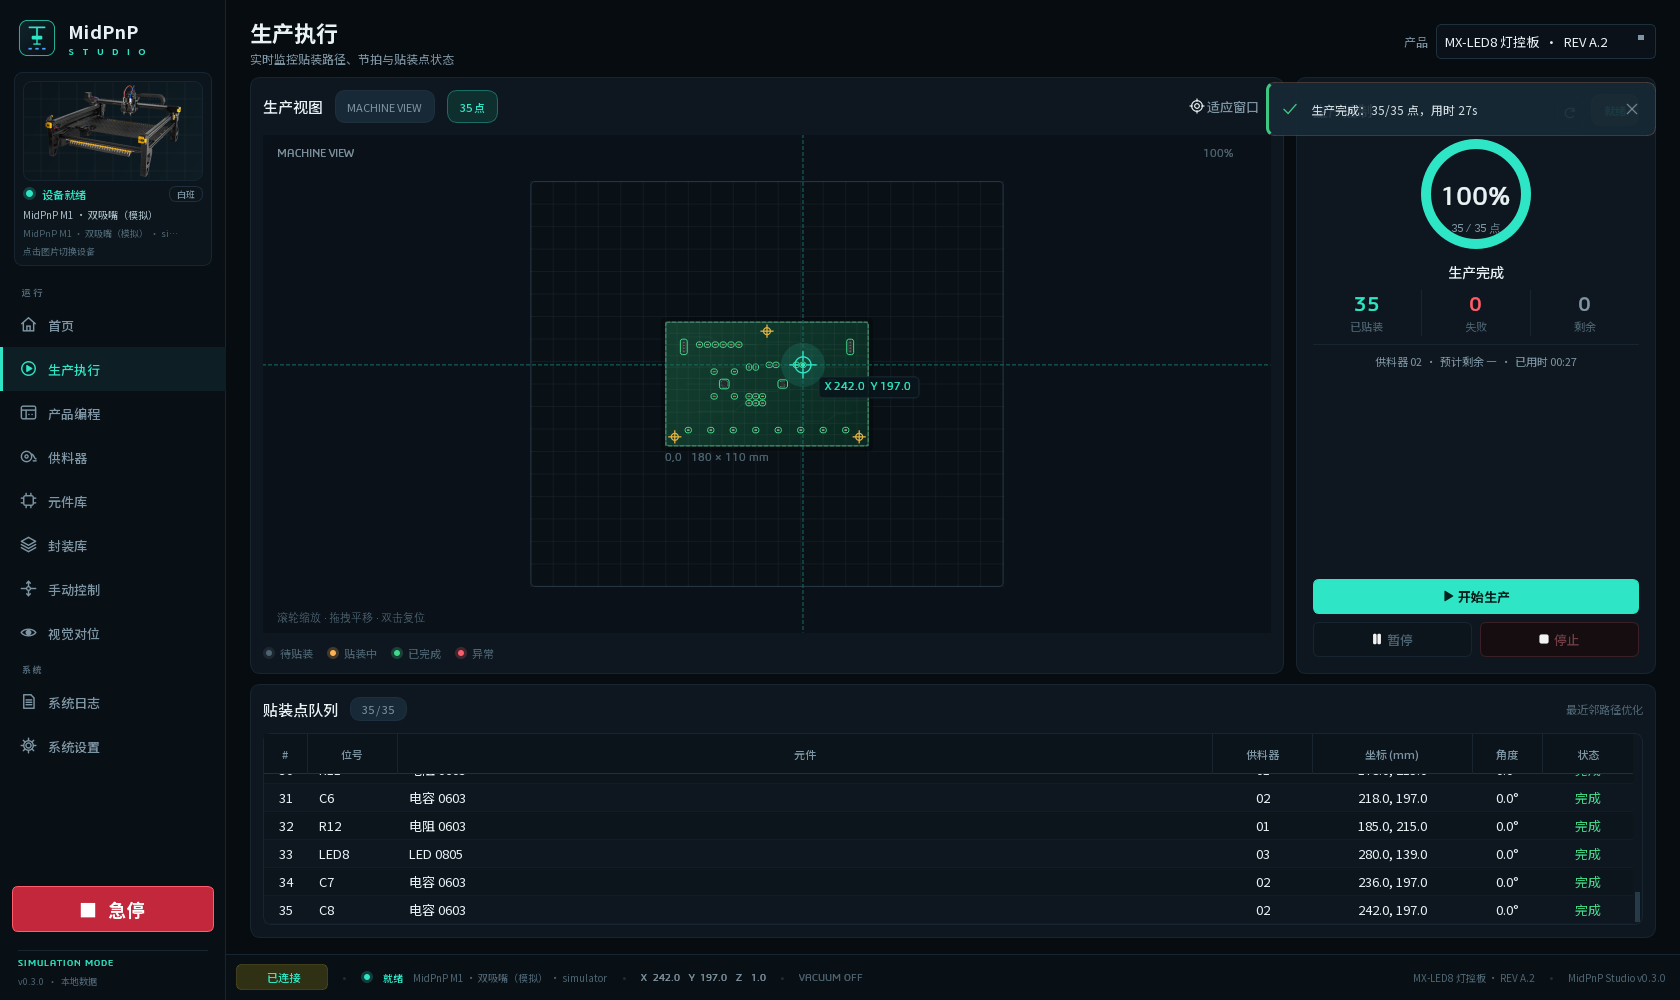
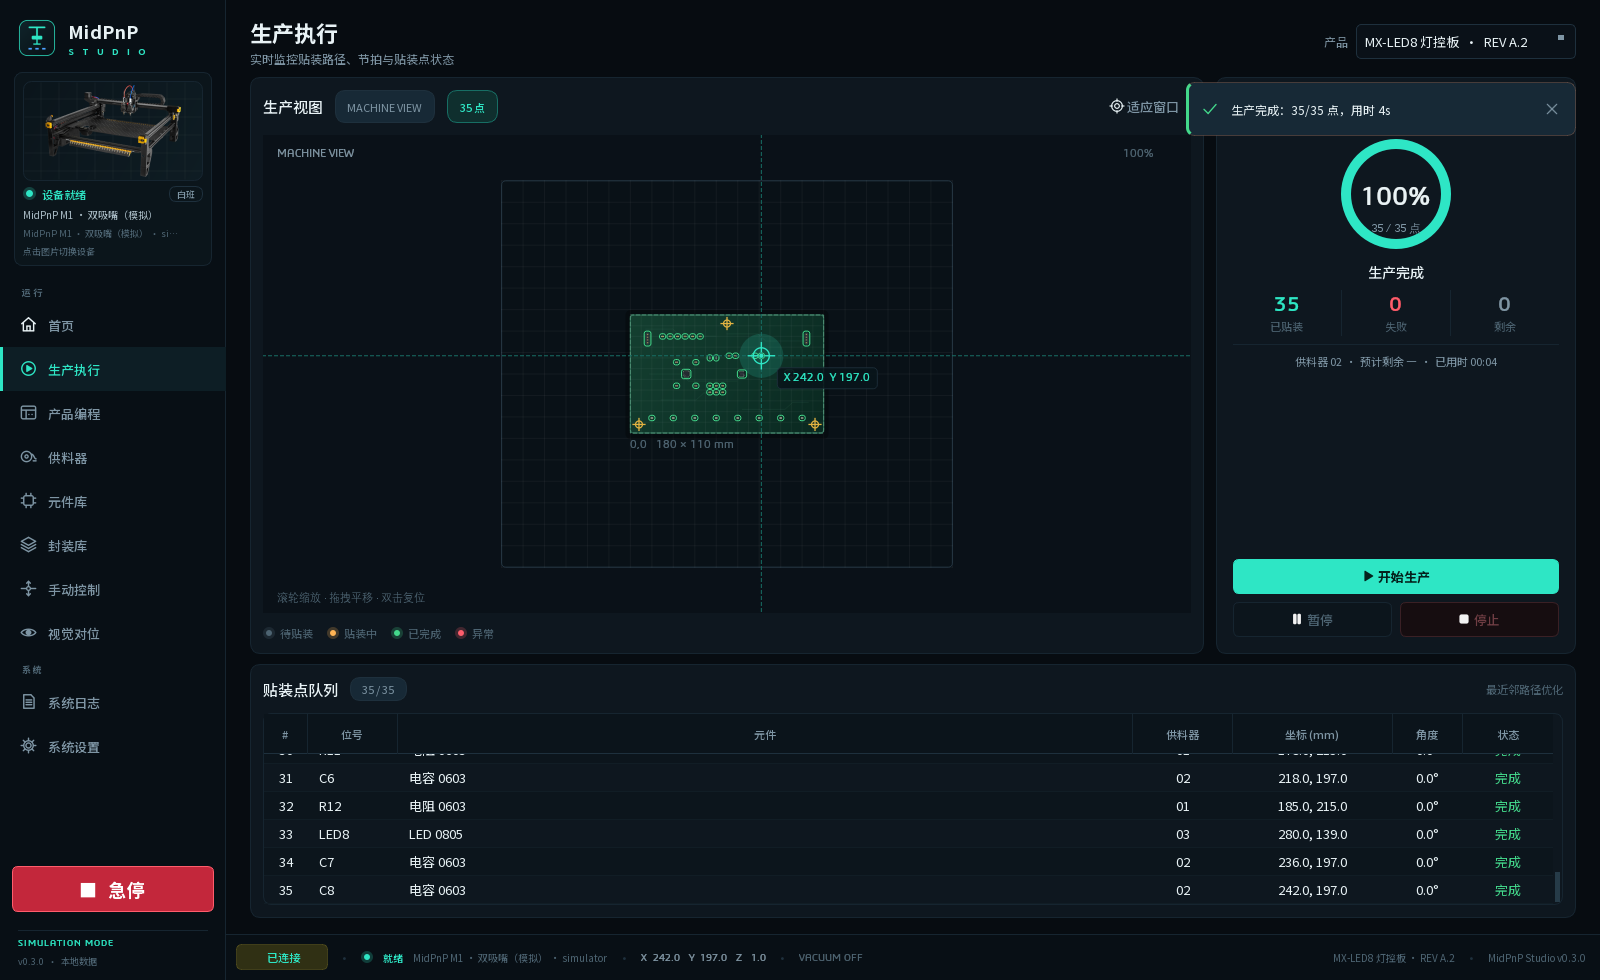
fix(ui): redraw bed to match the reference plate
- use two chamfered plate panels sharing a 267/535 divider, with V notches at
  the divider ends and large mounting holes at all plate corners
- reproduce the staggered hole grid from the reference: 64 px horizontal pitch,
  32 px vertical pitch, 7 rows per half, alternating offsets, 8 px hole rings
  plus the marked locator holes
- redraw the calibration board as the wide trapezoid PCB with fiducial grid,
  side mounting holes and bottom connector, and the bottom camera as the
  concentric lens stack with its locating holes
- product outline remains as a thin accent outline so the bed artwork stays
  visible
- 115 tests, screenshots updated

diff --git a/midpnp/ui/pages/home.py b/midpnp/ui/pages/home.py
@@ -489,9 +489,7 @@ class MachineScene(QWidget):
             )
             board_rect = QRectF(top_left, bottom_right).normalized()
             painter.setPen(QPen(QColor(COLORS["accent"]), 1.0))
-            fill = QColor(COLORS["accent"])
-            fill.setAlpha(18)
-            painter.setBrush(fill)
+            painter.setBrush(Qt.BrushStyle.NoBrush)
             painter.drawRect(board_rect)
             painter.setBrush(QColor(COLORS["accent"]))
             painter.setPen(Qt.PenStyle.NoPen)
@@ -535,101 +533,202 @@ class MachineScene(QWidget):
         return image
 
     def _draw_default_bed(self, painter: QPainter, bed: QRectF) -> None:
-        # 平台外框与角部安装孔
-        painter.setPen(QPen(QColor("#4a6674"), 1.2))
+        # 按参考图 1:1 比例绘制：上下两块倒角面板、交错孔阵列、校准板与相机
+        left, top, right, bottom = bed.left(), bed.top(), bed.right(), bed.bottom()
+        width, height = bed.width(), bed.height()
+        cut = width * 18 / 1302
+        divider = top + height * 267 / 535
+
+        def px(value: float) -> float:
+            return left + width * value / 1302
+
+        def py(value: float) -> float:
+            return top + height * value / 535
+
+        def plate(top_y: float, bottom_y: float) -> QPolygonF:
+            return QPolygonF(
+                [
+                    QPointF(left + cut, top_y),
+                    QPointF(right - cut, top_y),
+                    QPointF(right, top_y + cut),
+                    QPointF(right, bottom_y - cut),
+                    QPointF(right - cut, bottom_y),
+                    QPointF(left + cut, bottom_y),
+                    QPointF(left, bottom_y - cut),
+                    QPointF(left, top_y + cut),
+                ]
+            )
+
+        painter.setPen(QPen(QColor("#4a6674"), 1.25))
         painter.setBrush(QColor("#0a1216"))
-        painter.drawRoundedRect(bed.adjusted(6, 6, -6, -6), 10, 10)
-        for corner in (
-            QPointF(bed.left() + 20, bed.top() + 20),
-            QPointF(bed.right() - 20, bed.top() + 20),
-            QPointF(bed.left() + 20, bed.bottom() - 20),
-            QPointF(bed.right() - 20, bed.bottom() - 20),
+        painter.drawPolygon(plate(top, divider))
+        painter.drawPolygon(plate(divider, bottom))
+
+        # 中缝
+        painter.setPen(QPen(QColor("#4a6674"), 1.15))
+        painter.drawLine(QPointF(px(18), divider), QPointF(px(1284), divider))
+
+        # 四角与中缝两端的大安装孔
+        for cx, cy in (
+            (30, 33),
+            (1267, 33),
+            (30, 247),
+            (1267, 247),
+            (30, 502),
+            (1267, 502),
         ):
-            painter.setPen(QPen(QColor("#5c7682"), 1.1))
+            painter.setPen(QPen(QColor("#6b8794"), 1.25))
             painter.setBrush(QColor("#05090b"))
-            painter.drawEllipse(corner, 5.2, 5.2)
+            radius_big = max(3.5, width * 6 / 1302)
+            painter.drawEllipse(QPointF(px(cx), py(cy)), radius_big, radius_big)
 
-        # 成排固定孔
-        step = max(22, int(bed.width() / 24))
-        y = bed.top() + 18
-        row = 0
-        while y < bed.bottom() - 10:
-            x = bed.left() + 18 + (step / 2 if row % 2 else 0)
-            while x < bed.right() - 10:
-                painter.setPen(QPen(QColor("#31505c"), 1))
-                painter.setBrush(QColor("#05090b"))
-                painter.drawEllipse(QPointF(x, y), 2.2, 2.2)
-                x += step
-            y += step
-            row += 1
+        # 交错小孔阵列：横向 64 px、纵向 32 px
+        x_pitch = width * 64 / 1302
+        y_pitch = height * 32 / 535
+        rows = [
+            (43, 104),
+            (75, 72),
+            (107, 40),
+            (139, 72),
+            (171, 40),
+            (203, 72),
+            (235, 104),
+            (299, 104),
+            (332, 72),
+            (364, 40),
+            (396, 72),
+            (428, 40),
+            (460, 72),
+            (491, 104),
+        ]
+        bold = {
+            (104, 299),
+            (616, 299),
+            (680, 300),
+            (712, 332),
+            (584, 395),
+            (712, 395),
+            (648, 460),
+            (104, 491),
+            (1193, 491),
+        }
+        radius = max(2.4, width * 4 / 1302)
+        for y_ref, x_start in rows:
+            x_ref = x_start
+            x_end = 1257 if x_start == 40 else (1225 if x_start == 72 else 1193)
+            while x_ref <= x_end:
+                painter.setPen(QPen(QColor("#5d7783"), 1.0))
+                painter.setBrush(Qt.BrushStyle.NoBrush)
+                center = QPointF(px(x_ref), py(y_ref))
+                painter.drawEllipse(center, radius, radius)
+                if (round(x_ref), round(y_ref)) in bold:
+                    painter.setPen(Qt.PenStyle.NoPen)
+                    painter.setBrush(QColor("#4d6874"))
+                    painter.drawEllipse(center, max(1.2, radius * 0.45), max(1.2, radius * 0.45))
+                x_ref += 64
 
-        # 平台中缝（中央带斜切）
-        divider = bed.top() + bed.height() * 0.52
-        cx = bed.center().x()
-        painter.setPen(QPen(QColor("#3c5663"), 1.1))
-        painter.setBrush(Qt.BrushStyle.NoBrush)
-        painter.drawLine(QPointF(bed.left() + 10, divider), QPointF(cx - 72, divider))
-        painter.drawLine(QPointF(cx - 72, divider), QPointF(cx - 62, divider - 8))
-        painter.drawLine(QPointF(cx - 62, divider - 8), QPointF(cx + 62, divider - 8))
-        painter.drawLine(QPointF(cx + 62, divider - 8), QPointF(cx + 72, divider))
-        painter.drawLine(QPointF(cx + 72, divider), QPointF(bed.right() - 10, divider))
-
-        lower_top = divider
-        lower_h = max(1.0, bed.bottom() - lower_top)
-
-        # 校准板（八角形 PCB + 棋盘标定图案）
-        cal_w = min(140.0, bed.width() * 0.21)
-        cal_h = max(52.0, cal_w * 0.52)
-        cal = QPointF(cx, lower_top + lower_h * 0.53)
-        cut = min(12.0, cal_w * 0.12)
-        poly = QPolygonF(
+        # 校准板（宽梯形 PCB，顶部基准圆、中央标定格、侧面安装孔、底部插座）
+        cal_top, cal_bottom = 278.0, 352.0
+        cal_poly = QPolygonF(
             [
-                QPointF(cal.x() - cal_w / 2 + cut, cal.y() - cal_h / 2),
-                QPointF(cal.x() + cal_w / 2 - cut, cal.y() - cal_h / 2),
-                QPointF(cal.x() + cal_w / 2, cal.y() - cal_h / 2 + cut),
-                QPointF(cal.x() + cal_w / 2, cal.y() + cal_h / 2 - cut),
-                QPointF(cal.x() + cal_w / 2 - cut, cal.y() + cal_h / 2),
-                QPointF(cal.x() - cal_w / 2 + cut, cal.y() + cal_h / 2),
-                QPointF(cal.x() - cal_w / 2, cal.y() + cal_h / 2 - cut),
-                QPointF(cal.x() - cal_w / 2, cal.y() - cal_h / 2 + cut),
+                QPointF(px(620), py(cal_top)),
+                QPointF(px(676), py(cal_top)),
+                QPointF(px(740), py(298)),
+                QPointF(px(740), py(330)),
+                QPointF(px(700), py(cal_bottom)),
+                QPointF(px(596), py(cal_bottom)),
+                QPointF(px(556), py(330)),
+                QPointF(px(556), py(298)),
             ]
         )
-        painter.setPen(QPen(QColor("#87979e"), 1.1))
+        painter.setPen(QPen(QColor("#8fa1a8"), 1.2))
         painter.setBrush(QColor("#c8d0d3"))
-        painter.drawPolygon(poly)
-        painter.setPen(QPen(QColor("#4c5b62"), 0.9))
-        painter.setBrush(QColor("#7f8b90"))
-        inner = QRectF(cal.x() - cal_w * 0.20, cal.y() - cal_h * 0.24, cal_w * 0.40, cal_h * 0.48)
+        painter.drawPolygon(cal_poly)
+
+        # 顶部基准圆 + 中央标定格
+        painter.setPen(QPen(QColor("#53646b"), 1.0))
+        painter.setBrush(QColor("#eef2f3"))
+        painter.drawEllipse(QPointF(px(648), py(287)), width * 7 / 1302, width * 7 / 1302)
+        inner = QRectF(px(622), py(296), width * 52 / 1302, height * 30 / 535)
+        painter.setPen(QPen(QColor("#5d6b71"), 0.9))
         painter.drawRect(inner)
-        cell = max(2.0, inner.width() / 8)
+        cell = inner.width() / 4
         for row in range(4):
             for col in range(4):
                 if (row + col) % 2:
                     continue
-                painter.setBrush(QColor("#2c383d"))
+                painter.setBrush(QColor("#3a474d"))
                 painter.drawRect(
                     QRectF(inner.left() + col * cell, inner.top() + row * cell, cell, cell)
                 )
-        painter.setPen(QPen(QColor("#4c5b62"), 1.0))
-        painter.setBrush(QColor("#05090b"))
-        for dx in (-cal_w * 0.38, cal_w * 0.38):
-            painter.drawEllipse(QPointF(cal.x() + dx, cal.y()), 3.2, 3.2)
 
-        # 底部相机
-        cam = QPointF(cx, lower_top + lower_h * 0.85)
-        painter.setPen(QPen(QColor("#58727e"), 1.2))
-        painter.setBrush(QColor("#070d11"))
-        painter.drawEllipse(cam, 28, 28)
-        painter.setPen(QPen(QColor("#3c5663"), 1.0))
-        painter.setBrush(Qt.BrushStyle.NoBrush)
-        painter.drawEllipse(cam, 21, 21)
-        painter.drawEllipse(cam, 14, 14)
-        painter.setBrush(QColor("#020506"))
-        painter.setPen(QPen(QColor("#75909b"), 1.1))
-        painter.drawEllipse(cam, 8, 8)
+        # 两侧大安装孔、四角小孔
+        for x_ref, y_ref, r_ref in (
+            (598, 300, 8),
+            (698, 300, 8),
+            (578, 327, 4),
+            (718, 327, 4),
+            (584, 352, 3.5),
+            (712, 352, 3.5),
+        ):
+            painter.setPen(QPen(QColor("#53646b"), 1.0))
+            painter.setBrush(QColor("#eef2f3"))
+            painter.drawEllipse(
+                QPointF(px(x_ref), py(y_ref)),
+                width * r_ref / 1302,
+                width * r_ref / 1302,
+            )
+            painter.setBrush(QColor("#3a474d"))
+            painter.drawEllipse(
+                QPointF(px(x_ref), py(y_ref)),
+                width * r_ref * 0.45 / 1302,
+                width * r_ref * 0.45 / 1302,
+            )
+
+        # 底部插座/齿状焊盘
+        painter.setPen(QPen(QColor("#53646b"), 0.9))
+        for index in range(9):
+            x_ref = 615 + index * 8
+            painter.drawLine(QPointF(px(x_ref), py(338)), QPointF(px(x_ref), py(346)))
+        painter.setBrush(QColor("#eef2f3"))
+        painter.drawRect(QRectF(px(630), py(346), width * 36 / 1302, height * 6 / 535))
+
+        # 底部相机（同心圆 + 定位孔）
+        cam_cx, cam_cy = px(648), py(390)
+        for rr, color, filled in (
+            (55, "#6b8794", False),
+            (45, "#58727e", False),
+            (30, "#4a6572", False),
+            (16, "#75909b", True),
+        ):
+            painter.setPen(QPen(QColor(color), 1.2))
+            painter.setBrush(QColor("#020506") if filled else Qt.BrushStyle.NoBrush)
+            painter.drawEllipse(
+                QPointF(cam_cx, cam_cy),
+                width * rr / 1302,
+                width * rr / 1302,
+            )
         painter.setBrush(QColor("#2b4652"))
         painter.setPen(Qt.PenStyle.NoPen)
-        painter.drawEllipse(QPointF(cam.x() - 3, cam.y() - 3), 2.4, 2.4)
+        painter.drawEllipse(
+            QPointF(cam_cx - width * 5 / 1302, cam_cy - width * 5 / 1302),
+            width * 3 / 1302,
+            width * 3 / 1302,
+        )
+
+        for x_ref, y_ref, r_ref in (
+            (584, 395, 6),
+            (712, 395, 6),
+            (648, 342, 5),
+            (648, 459, 5),
+        ):
+            painter.setPen(QPen(QColor("#6b8794"), 1.1))
+            painter.setBrush(QColor("#05090b"))
+            painter.drawEllipse(
+                QPointF(px(x_ref), py(y_ref)),
+                width * r_ref / 1302,
+                width * r_ref / 1302,
+            )
 
     def _draw_head(self, painter: QPainter, frame: QRectF) -> None:
         profile = self._profile
